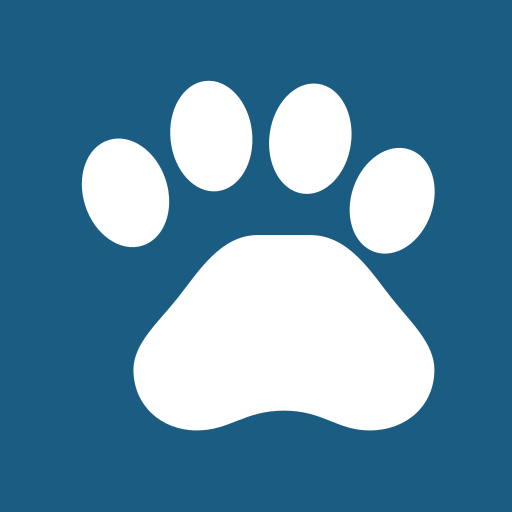
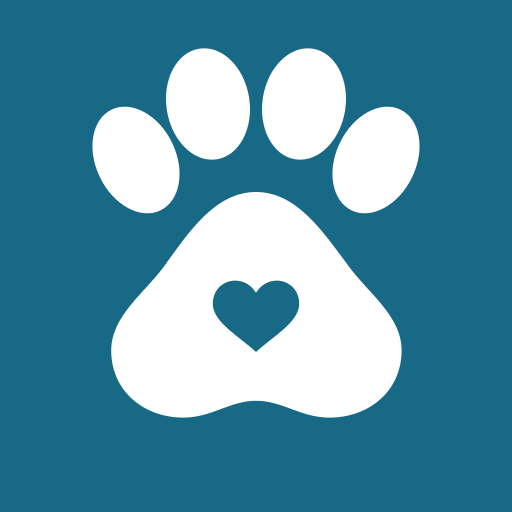
feat(pwa): renovar identidad instalable y modo offline

Changed region(s): [[0.1562, 0.0938, 0.875, 0.8438], [0.4062, 0.5312, 0.5938, 0.6875], [0.3125, 0.7812, 0.5938, 0.8438]]

diff --git a/src/features/pwa/assets.test.ts b/src/features/pwa/assets.test.ts
@@ -1,0 +1,106 @@
+import { readFile } from 'node:fs/promises';
+import path from 'node:path';
+import sharp from 'sharp';
+import { describe, expect, it } from 'vitest';
+import manifest from '@/app/manifest';
+
+const publicPath = (...parts: string[]) => path.join(process.cwd(), 'public', ...parts);
+type WorkerEvent = {
+  waitUntil?: (promise: Promise<unknown>) => void;
+  request?: { url: string; method: string; mode: string };
+  respondWith?: (promise: Promise<Response>) => void;
+};
+
+describe('PawPass install assets', () => {
+  it('serves separately composed square and maskable icons at the required sizes', async () => {
+    const appManifest = manifest();
+    const anyIcon = appManifest.icons?.find((icon) => icon.purpose === 'any');
+    const maskableIcon = appManifest.icons?.find((icon) => icon.purpose === 'maskable');
+
+    expect(anyIcon).toMatchObject({ src: '/pawpass-pwa-icon-512.png', sizes: '512x512', type: 'image/png' });
+    expect(maskableIcon).toMatchObject({ src: '/pawpass-pwa-icon-maskable-512.png', sizes: '512x512', type: 'image/png' });
+    expect(appManifest).toMatchObject({ display: 'standalone', theme_color: '#176986', start_url: '/' });
+
+    const requiredImages = [
+      ['pawpass-pwa-icon-32.png', 32],
+      ['pawpass-pwa-icon-48.png', 48],
+      ['pawpass-pwa-icon-180.png', 180],
+      ['pawpass-pwa-icon-192.png', 192],
+      ['pawpass-pwa-icon-512.png', 512],
+      ['pawpass-pwa-icon-maskable-512.png', 512],
+    ] as const;
+
+    for (const [file, size] of requiredImages) {
+      const metadata = await sharp(await readFile(publicPath(file))).metadata();
+      expect([metadata.width, metadata.height], file).toEqual([size, size]);
+    }
+  });
+
+  it('falls back to the offline screen without caching private navigation or auth responses', async () => {
+    const workerSource = await readFile(publicPath('service-worker.js'), 'utf8');
+    const handlers = new Map<string, (event: WorkerEvent) => void>();
+    const entries = new Map<string, Response>();
+    const writes: string[] = [];
+    const deleted: string[] = [];
+    const cache = {
+      async addAll(urls: string[]) {
+        for (const url of urls) entries.set(url, new Response('offline'));
+      },
+      async match(request: Request | string) {
+        return entries.get(typeof request === 'string' ? request : request.url);
+      },
+      async put(request: Request, response: Response) {
+        writes.push(request.url);
+        entries.set(request.url, response);
+      },
+    };
+    const cacheStorage = {
+      async open() { return cache; },
+      async match(request: Request | string) { return cache.match(request); },
+      async keys() { return ['pawpass-shell-v2', 'pawpass-static-v2', 'unrelated-cache']; },
+      async delete(key: string) { deleted.push(key); return true; },
+    };
+    const origin = 'https://pawpass.example';
+    const context = {
+      self: {
+        location: { origin },
+        clients: { async claim() {} },
+        skipWaiting() {},
+        addEventListener(type: string, listener: (event: WorkerEvent) => void) { handlers.set(type, listener); },
+      },
+      caches: cacheStorage,
+      fetch: async (request: Request) => {
+        if (new URL(request.url).pathname === '/mascotas') throw new Error('offline');
+        if (new URL(request.url).pathname.endsWith('.png')) return new Response('image', { headers: { 'content-type': 'image/png' } });
+        return new Response('<html>private</html>', { headers: { 'content-type': 'text/html' } });
+      },
+      URL,
+    };
+
+    const { runInNewContext } = await import('node:vm');
+    runInNewContext(workerSource, context);
+    await handlers.get('install')?.({ waitUntil: (promise: Promise<unknown>) => promise });
+    await handlers.get('activate')?.({ waitUntil: (promise: Promise<unknown>) => promise });
+
+    let offlineResponse: Promise<Response> | undefined;
+    handlers.get('fetch')?.({
+      request: { url: `${origin}/mascotas`, method: 'GET', mode: 'navigate' },
+      respondWith: (promise: Promise<Response>) => { offlineResponse = promise; },
+    });
+    const navigationResponse = await offlineResponse;
+
+    handlers.get('fetch')?.({
+      request: { url: `${origin}/auth/callback?code=private`, method: 'GET', mode: 'same-origin' },
+      respondWith: (promise: Promise<Response>) => { offlineResponse = promise; },
+    });
+    handlers.get('fetch')?.({
+      request: { url: `${origin}/pawpass-pwa-icon-maskable-512.png`, method: 'GET', mode: 'no-cors' },
+      respondWith: (promise: Promise<Response>) => { offlineResponse = promise; },
+    });
+    await offlineResponse;
+
+    expect(await navigationResponse?.text()).toBe('offline');
+    expect(writes).toEqual([`${origin}/pawpass-pwa-icon-maskable-512.png`]);
+    expect(deleted).toEqual(['pawpass-shell-v2', 'pawpass-static-v2']);
+  });
+});

diff --git a/public/offline.html b/public/offline.html
@@ -4,7 +4,7 @@
     <meta charset="utf-8">
     <meta name="viewport" content="width=device-width, initial-scale=1">
     <meta name="robots" content="noindex, nofollow, noarchive">
-    <meta name="theme-color" content="#1b5d82">
+    <meta name="theme-color" content="#176986">
     <title>Sin conexión | PawPass</title>
     <style>
       :root { color-scheme: light; font-family: "Nunito Sans", ui-sans-serif, system-ui, sans-serif; color: #17364a; background: #f5f9fb; }
@@ -12,7 +12,7 @@
       main { width: min(100%, 34rem); border: 1px solid #bfd3dc; border-radius: 1rem; background: #fff; padding: clamp(1.25rem, 6vw, 2.5rem); }
       h1 { margin: 0 0 .75rem; font-size: clamp(1.7rem, 8vw, 2.25rem); line-height: 1.12; }
       p { margin: 0; font-size: 1rem; line-height: 1.6; }
-      .brand { margin: 0 0 2rem; color: #1b5d82; font-size: 1.35rem; font-weight: 750; letter-spacing: -.04em; }
+      .brand { margin: 0 0 2rem; color: #176986; font-size: 1.35rem; font-weight: 750; letter-spacing: -.04em; }
       .brand img { width: 1.4rem; height: 1.4rem; margin-left: .25rem; vertical-align: -.2rem; }
     </style>
   </head>

diff --git a/src/app/manifest.ts b/src/app/manifest.ts
@@ -5,16 +5,19 @@ export default function manifest(): MetadataRoute.Manifest {
     id: '/',
     name: 'PawPass',
     short_name: 'PawPass',
+    lang: 'es-MX',
     description: 'Fichas de rescate y salud privada para tus mascotas.',
     start_url: '/',
     scope: '/',
     display: 'standalone',
     background_color: '#f5f9fb',
-    theme_color: '#1b5d82',
+    theme_color: '#176986',
     icons: [
-      { src: '/pawpass-pwa-icon-192.png', sizes: '192x192', type: 'image/png', purpose: 'any' },
       { src: '/pawpass-pwa-icon-512.png', sizes: '512x512', type: 'image/png', purpose: 'any' },
-      { src: '/pawpass-pwa-icon-512.png', sizes: '512x512', type: 'image/png', purpose: 'maskable' },
+      { src: '/pawpass-pwa-icon-48.png', sizes: '48x48', type: 'image/png', purpose: 'any' },
+      { src: '/pawpass-pwa-icon-32.png', sizes: '32x32', type: 'image/png', purpose: 'any' },
+      { src: '/pawpass-pwa-icon-192.png', sizes: '192x192', type: 'image/png', purpose: 'any' },
+      { src: '/pawpass-pwa-icon-maskable-512.png', sizes: '512x512', type: 'image/png', purpose: 'maskable' },
     ],
   };
 }

diff --git a/src/app/layout.tsx b/src/app/layout.tsx
@@ -1,17 +1,20 @@
 import { SiteFooter } from '@/features/brand/site-footer';
 import { PwaRegistration } from '@/features/pwa/pwa-registration';
+import { getSiteUrl } from '@/lib/supabase/env';
 import type { Metadata } from 'next';
 import type { Viewport } from 'next';
 import '@fontsource-variable/nunito-sans';
 import './globals.css';
 
 export const metadata: Metadata = {
+  metadataBase: new URL(getSiteUrl()),
   title: 'PawPass — su ficha de rescate',
   description: 'Una forma clara de identificar a tu mascota y ayudarte a volver a encontrarla.',
+  appleWebApp: { capable: true, title: 'PawPass', statusBarStyle: 'default' },
   robots: { index: false, follow: false },
 };
 
-export const viewport: Viewport = { themeColor: '#1b5d82' };
+export const viewport: Viewport = { themeColor: '#176986' };
 
 export default function RootLayout({ children }: Readonly<{ children: React.ReactNode }>) {
   return <html lang="es-MX" data-scroll-behavior="smooth"><body>{children}<SiteFooter /><PwaRegistration /></body></html>;

diff --git a/public/service-worker.js b/public/service-worker.js
@@ -1,10 +1,14 @@
-const SHELL_CACHE = 'pawpass-shell-v2';
-const STATIC_CACHE = 'pawpass-static-v2';
+const SHELL_CACHE = 'pawpass-shell-v3';
+const STATIC_CACHE = 'pawpass-static-v3';
 const OFFLINE_PAGE = '/offline.html';
 const PUBLIC_ASSETS = new Set([
   '/paw-mark.svg',
+  '/icon.svg',
+  '/pawpass-pwa-icon-32.png',
+  '/pawpass-pwa-icon-48.png',
   '/pawpass-pwa-icon-192.png',
   '/pawpass-pwa-icon-512.png',
+  '/pawpass-pwa-icon-maskable-512.png',
 ]);
 
 self.addEventListener('install', (event) => {
